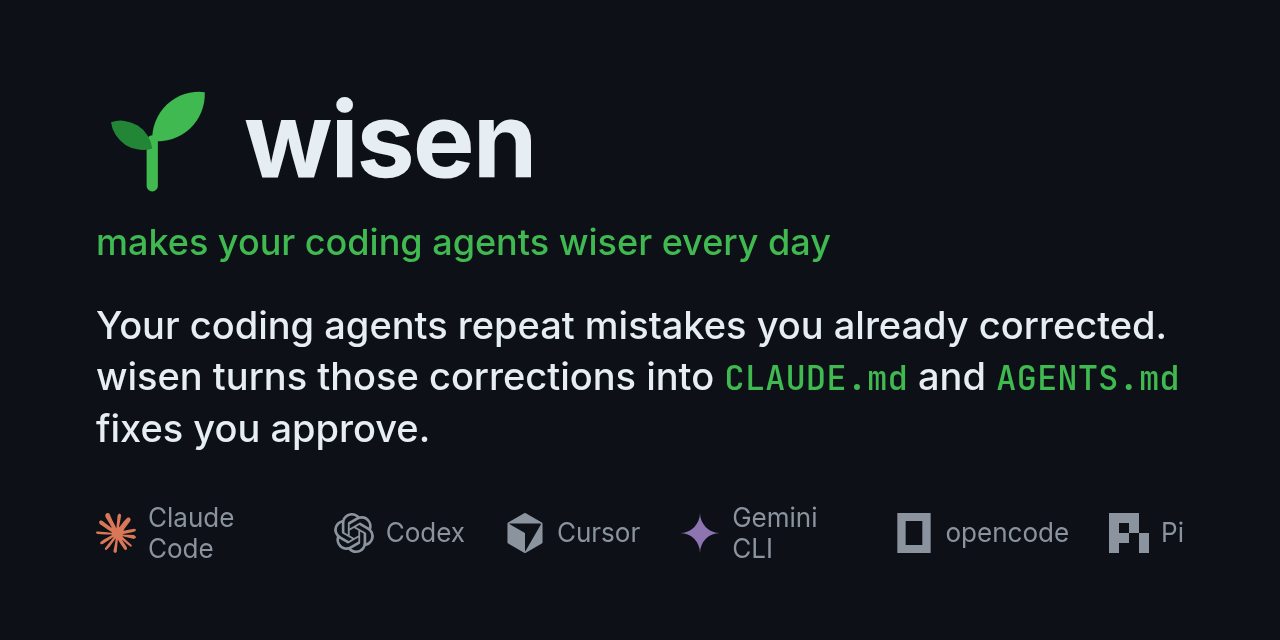
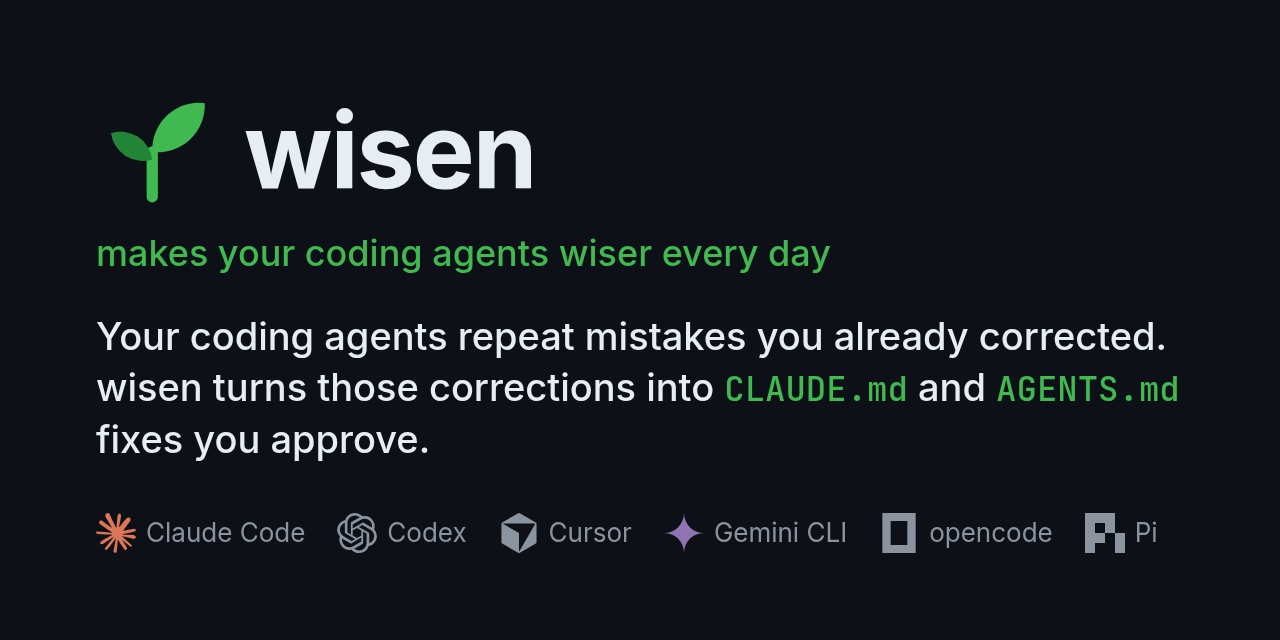
docs: keep agent names on one line in the social preview

diff --git a/docs/assets/social-preview.html b/docs/assets/social-preview.html
@@ -24,8 +24,8 @@
   .tag { margin: 18px 0 0; font-size: 36px; font-weight: 500; color: #3fb950; }
   .hook { margin: 36px 0 0; font-size: 38px; line-height: 1.35; font-weight: 500; max-width: 1090px; text-wrap: balance; }
   .hook code { font-family: "JetBrains Mono", ui-monospace, Menlo, monospace; font-size: 34px; color: #3fb950; }
-  .agents { margin-top: 48px; display: flex; gap: 40px; align-items: center; }
-  .agent { display: flex; align-items: center; gap: 12px; font-size: 26px; color: #8b949e; }
+  .agents { margin-top: 48px; display: flex; gap: 32px; align-items: center; }
+  .agent { display: flex; align-items: center; gap: 10px; font-size: 26px; color: #8b949e; white-space: nowrap; }
   .agent img { width: 40px; height: 40px; }
 </style>
 </head>
